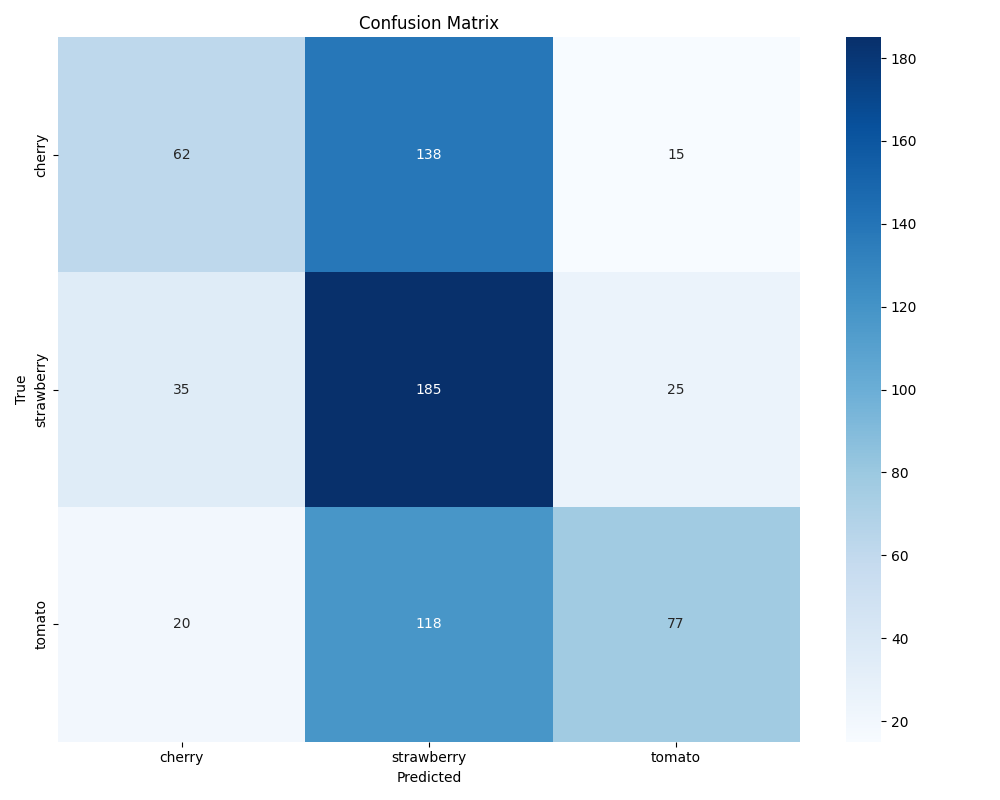
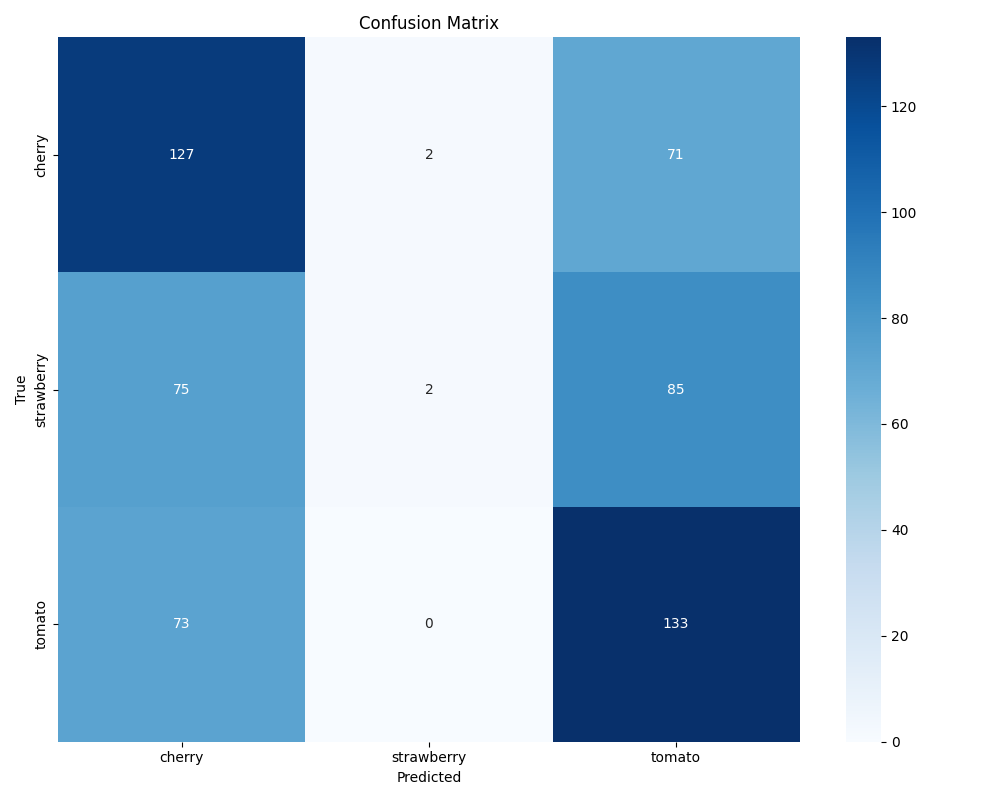
New Code
New Code to generate synthetic Data for classfication

diff --git a/code/generateImages.py b/code/generateImages.py
@@ -1,0 +1,41 @@
+import torch
+from diffusers import StableDiffusionPipeline
+from torch import autocast
+from PIL import Image
+
+# Define the model and prompt
+model_id = "runwayml/stable-diffusion-v1-5"
+prompt = "A close-up of a fresh strawberry in good lighting and clean background"
+
+def generate_strawberry_images(prompt, num_images, size=(300, 300)):
+    # Load the pre-trained Stable Diffusion model
+    pipe = StableDiffusionPipeline.from_pretrained(model_id, torch_dtype=torch.float16)
+
+    # Move model to GPU if available, else CPU
+    
+    if torch.cuda.is_available():
+        device = "cuda" 
+    elif torch.backends.mps.is_available():
+        device = "mps" 
+    else:
+        device = "cpu"
+    
+    pipe.to(device)
+
+    print(f"Generating {num_images} images on {device}...")
+
+    # Generate multiple images
+    for i in range(num_images):
+        with autocast(device):  # Efficient inference with mixed precision
+            image = pipe(prompt).images[0]
+
+        # Resize the image to the specified size (300x300)
+        image = image.resize(size, Image.LANCZOS)
+
+        # Save the generated image with a unique filename
+        save_path = f"strawberry_image_{i+1}.png"
+        image.save(save_path)
+        print(f"Image {i+1} saved as {save_path}")
+
+# Generate 50 strawberry images
+generate_strawberry_images(prompt, num_images=1)

diff --git a/code/basenet.py b/code/basenet.py
@@ -228,7 +228,7 @@ def main():
     hidden_size = 512  # Number of neurons in the hidden layer
     num_classes = 3  # Number of output classes (cherry, strawberry, tomato)
     num_epochs = 25  # Number of training epochs
-    batch_size = 32  # Batch size for training and evaluation
+    batch_size = 64  # Batch size for training and evaluation
     learning_rate = 0.001  # Learning rate for optimizer
     train_split = 0.7  # Percentage of data to use for training
     val_split = 0.15  # Percentage of data to use for validation
@@ -253,7 +253,7 @@ def main():
     transform = transforms.Compose([
         transforms.Resize((112, 112)),
         transforms.RandomHorizontalFlip(),
-        transforms.RandomRotation(10),
+        transforms.RandomRotation(15),
         transforms.ToTensor(),
         transforms.Normalize((0.5, 0.5, 0.5), (0.5, 0.5, 0.5))  # Normalize RGB channels
     ])
